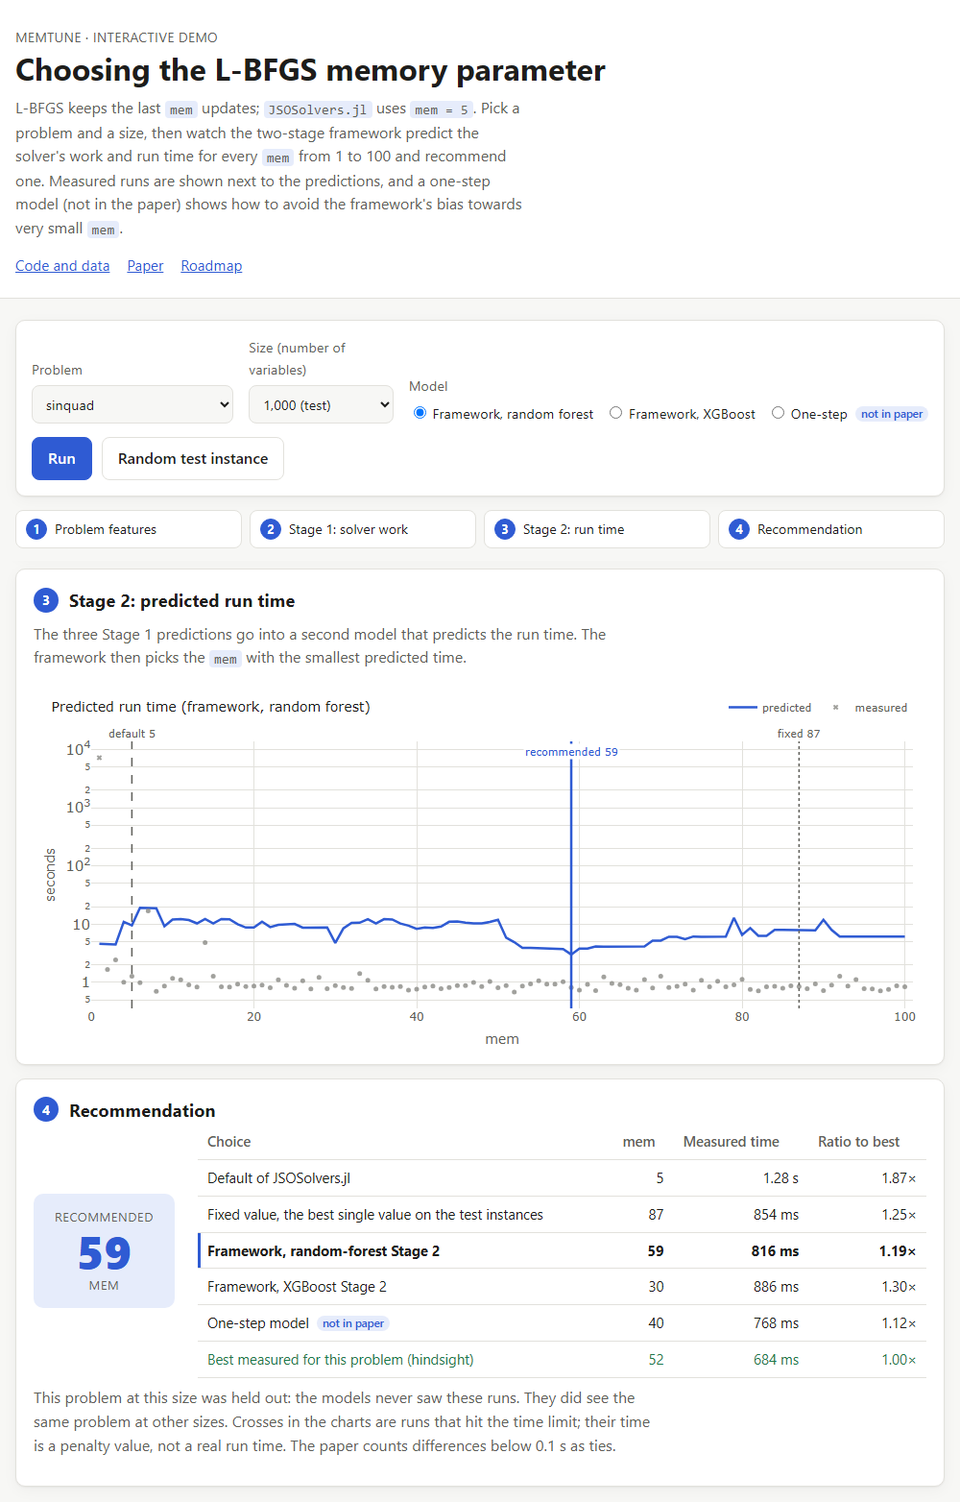
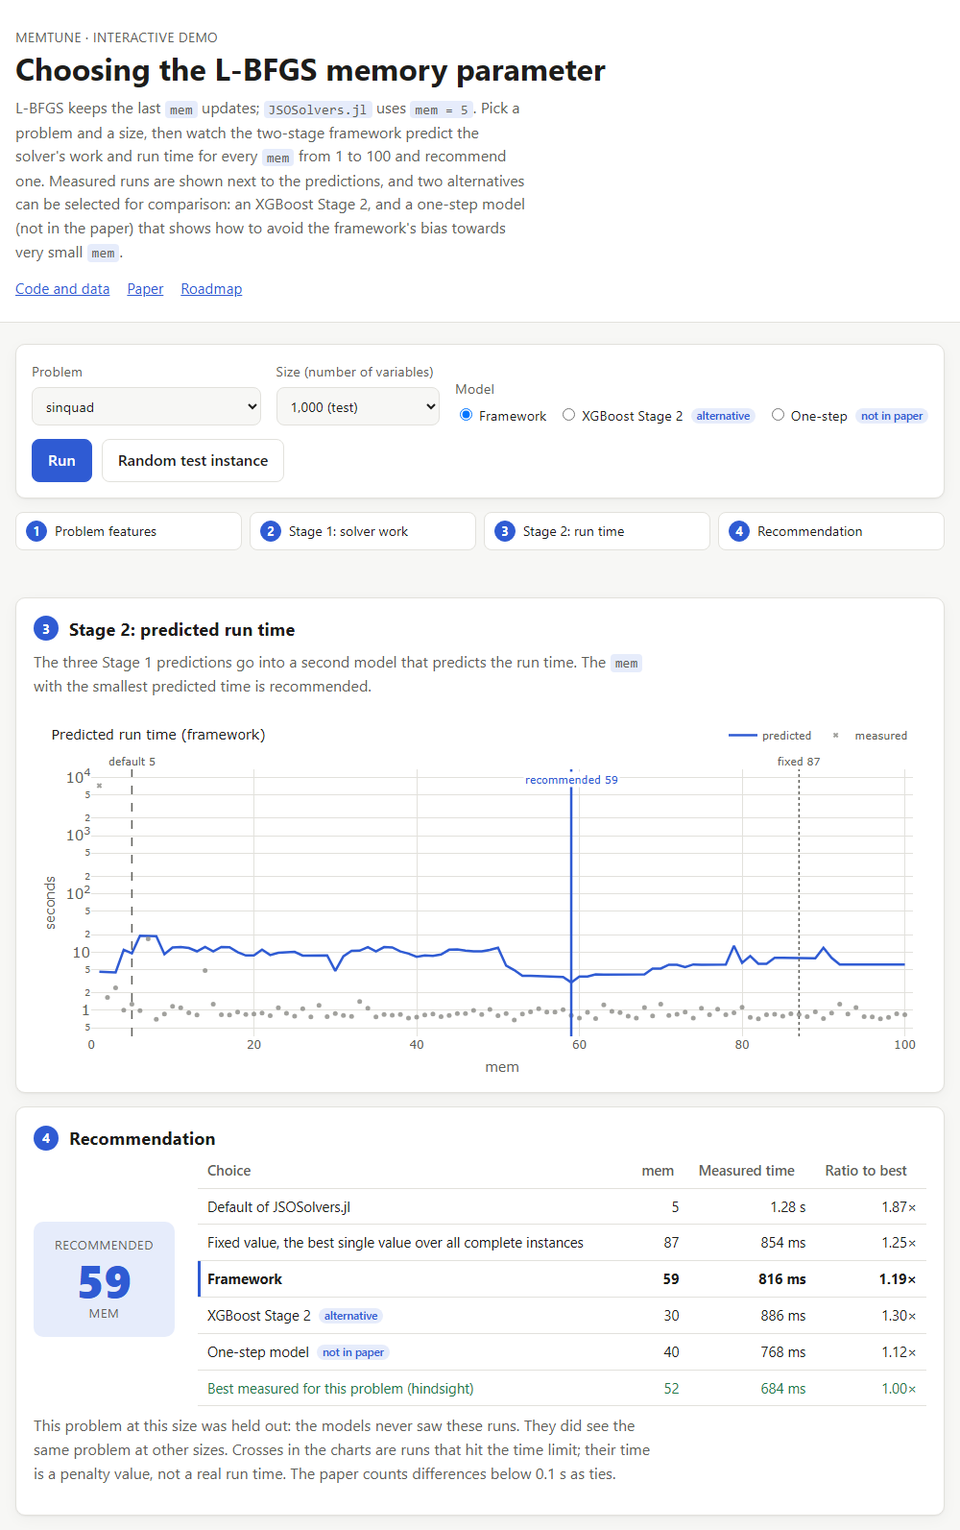
Present one framework (random-forest Stage 2), as in the paper
The XGBoost Stage 2 of the journal article is now labelled an alternative
in the README, the documentation, the demo and the output of reproduce.
Its model, its reference values and --stage2 gb are unchanged.

The fixed mem = 87 is described as the best single value over all 215
complete instances (on the 43 test instances alone the best value is 86).

diff --git a/site/index.html b/site/index.html
@@ -18,7 +18,7 @@
         L-BFGS keeps the last <code>mem</code> updates; <code>JSOSolvers.jl</code> uses <code>mem = 5</code>.
         Pick a problem and a size, then watch the two-stage framework predict the solver's work and run time
         for every <code>mem</code> from 1 to 100 and recommend one. Measured runs are shown next to the predictions,
-        and a one-step model (not in the paper) shows how to avoid the framework's bias towards very small <code>mem</code>.
+        and two alternatives can be selected for comparison: an XGBoost Stage 2, and a one-step model (not in the paper) that shows how to avoid the framework's bias towards very small <code>mem</code>.
       </p>
       <nav class="links">
         <a href="https://github.com/nishanmudalige/OptimizationParameterTuning">Code and data</a>
@@ -40,8 +40,8 @@
       </label>
       <fieldset class="field seg" id="model">
         <legend>Model</legend>
-        <label title="The paper's framework with a random-forest Stage 2"><input type="radio" name="model" value="rf" checked> Framework, random forest</label>
-        <label title="The paper's framework with an XGBoost Stage 2"><input type="radio" name="model" value="gb"> Framework, XGBoost</label>
+        <label title="The framework: hybrid Stage 1 and random-forest Stage 2"><input type="radio" name="model" value="rf" checked> Framework</label>
+        <label title="The same Stage 1 with an XGBoost Stage 2; reported in the journal article, not part of the framework"><input type="radio" name="model" value="gb"> XGBoost Stage 2 <span class="tag">alternative</span></label>
         <label title="Predicts run time directly from the features; not in the paper"><input type="radio" name="model" value="one_step"> One-step <span class="tag">not in paper</span></label>
       </fieldset>
       <div class="actions">
@@ -116,8 +116,8 @@
           (1 = optimal in hindsight).</li>
         <li><strong>Limits:</strong> results come from one train/test split, and every test instance is a problem that
           also occurs in the training data at another size, so they say little about entirely new problems; the timing features depend on the machine
-          that measured them; a single large fixed value (<code>mem = 87</code>, chosen with
-          hindsight on the test problems) is a strong reference that no model here beats. See the paper.</li>
+          that measured them; a single large fixed value (<code>mem = 87</code>, the value with the smallest average run time over all 215 complete instances, chosen with
+          hindsight) is a strong reference that no model here beats. See the paper.</li>
         <li><strong>Not covered:</strong> non-scalable (small, fixed-size) problems and sizes outside the training range;
           computing features for new problems live is on the <a href="https://github.com/nishanmudalige/OptimizationParameterTuning/blob/main/docs/DEMO_ROADMAP.md">roadmap</a>.</li>
       </ul>

diff --git a/site/app.js b/site/app.js
@@ -7,15 +7,15 @@ const FIRST_EXAMPLE = "sinquad_1000";  // shown when the address names no instan
 const state = { index: null, meta: null, byId: new Map(), cache: new Map(), current: null, model: "rf", running: false };
 const $ = (id) => document.getElementById(id);
 const reduceMotion = window.matchMedia("(prefers-reduced-motion: reduce)").matches;
-const MODEL_NAME = { rf: "framework, random forest", gb: "framework, XGBoost", one_step: "one-step model" };
+const MODEL_NAME = { rf: "framework", gb: "alternative XGBoost Stage 2", one_step: "one-step model" };
 const POLICY_ROWS = [  // [policy key, label, meta.table4 key]
-  ["rf", "Framework, random-forest Stage 2", "framework_rf"],
-  ["gb", "Framework, XGBoost Stage 2", "framework_gb"],
+  ["rf", "Framework", "framework_rf"],
+  ["gb", 'XGBoost Stage 2 <span class="tag">alternative</span>', "framework_gb"],
   ["one_step", 'One-step model <span class="tag">not in paper</span>', "one_step_rf"],
 ];
 const TIME_EXPLAIN = {
-  framework: "The three Stage 1 predictions go into a second model that predicts the run time. The framework then picks " +
-    "the <code>mem</code> with the smallest predicted time.",
+  framework: "The three Stage 1 predictions go into a second model that predicts the run time. " +
+    "The <code>mem</code> with the smallest predicted time is recommended.",
   one_step: "The one-step model (not in the paper) predicts the run time directly from the 15 features, " +
     "<code>mem</code> included, and picks the <code>mem</code> with the smallest predicted time.",
 };
@@ -214,7 +214,7 @@ function renderRecommendation(d) {
   const ratio = (x) => (x === null || best === null || best === 0 ? "–" : `${(x / best).toFixed(2)}×`);
   const rows = [
     ["Default of JSOSolvers.jl", state.meta.default_mem, t.default, ""],
-    ["Fixed value, the best single value on the test instances", state.meta.fixed_mem, t.fixed, ""],
+    ["Fixed value, the best single value over all complete instances", state.meta.fixed_mem, t.fixed, ""],
     ...POLICY_ROWS.map(([key, label]) => [label, d.rec[key], t[key], key === state.model ? "chosen" : ""]),
     ["Best measured for this problem (hindsight)", d.best_observed_mem, best, "best"],
   ];

diff --git a/src/memtune/robustness.py b/src/memtune/robustness.py
@@ -23,8 +23,8 @@ hyper-parameter is tuned again. Policies compared on every test set:
 ``default_mem5``    the default of JSOSolvers.jl
 ``fixed_train``     one fixed ``mem`` for all problems, chosen on the *training* instances of that split
                     (smallest mean performance ratio); unlike the paper's ``mem = 87`` it uses no test data
-``framework_rf``    the paper's framework, random-forest Stage 2
-``framework_gb``    the paper's framework, XGBoost Stage 2
+``framework_rf``    the paper's framework: hybrid Stage 1, random-forest Stage 2
+``framework_gb``    the alternative XGBoost Stage 2 on the same Stage 1 (not part of the framework)
 ``one_step_rf``     the one-step model (see :mod:`memtune.one_step`)
 ==================  ====================================================================================
 """
@@ -44,8 +44,8 @@ POLICIES = ("default_mem5", "fixed_train", "framework_rf", "framework_gb", "one_
 POLICY_LABELS = {
     "default_mem5": "Default mem = 5",
     "fixed_train": "Fixed mem chosen on the training instances",
-    "framework_rf": "Framework, random-forest Stage 2 (paper)",
-    "framework_gb": "Framework, XGBoost Stage 2 (paper)",
+    "framework_rf": "Framework (paper)",
+    "framework_gb": "Alternative, XGBoost Stage 2",
     "one_step_rf": "One-step model",
 }
 SUMMARY_COLUMNS = ["Q50", "Q75", "Q90", "mean", "time_ratio", "small_mem"]

diff --git a/tests/test_cli_tools.py b/tests/test_cli_tools.py
@@ -49,7 +49,7 @@ def test_reproduce_confirms_every_reference_value(full_csv, tmp_path, capsys):
     assert len(rows) == 32 and all(r["agrees"] for r in rows)
     # the numbers printed in the paper
     q90 = {r["quantity"]: r["recomputed"] for r in rows if r["quantity"].endswith("90th pct. ratio")}
-    assert q90["Framework, XGBoost Stage 2, 90th pct. ratio"] == pytest.approx(2.061, abs=5e-4)
+    assert q90["Alternative, XGBoost Stage 2, 90th pct. ratio"] == pytest.approx(2.061, abs=5e-4)
     assert q90["Default mem = 5 (Baseline 1), 90th pct. ratio"] == pytest.approx(2.684, abs=5e-4)
 
 
@@ -61,7 +61,7 @@ def test_reproduce_notices_a_different_value(sample_result, golden_sample):
     changed["table4"]["framework_gb"]["Q90"] *= 1.001
     changed["chosen_mem"]["framework_rf"][next(iter(changed["chosen_mem"]["framework_rf"]))] = 0
     bad = [quantity for _, quantity, _, _, ok in comparison_rows(sample_result, changed) if not ok]
-    assert bad == ["Framework, XGBoost Stage 2, 90th pct. ratio", "mem chosen for every test instance"]
+    assert bad == ["Alternative, XGBoost Stage 2, 90th pct. ratio", "mem chosen for every test instance"]
 
 
 @pytest.fixture(scope="module")

diff --git a/src/memtune/models.py b/src/memtune/models.py
@@ -29,7 +29,8 @@ MODEL_FILES = {
     "one_step_rf": "one_step/random_forest.pkl",
 }
 
-#: Policies that choose ``mem``: the paper's framework with either Stage 2, and the one-step model.
+#: Policies that choose ``mem``: the paper's framework (``rf``), the alternative XGBoost Stage 2 (``gb``), and the
+#: one-step model.
 POLICIES = ("rf", "gb", "one_step")
 
 
@@ -86,7 +87,8 @@ class Framework:
     def log_time(self, X: np.ndarray, which: str = "rf") -> np.ndarray:
         """Predicted log1p run time for rows of ``data.FEATURES``.
 
-        ``which`` is ``"rf"`` / ``"gb"`` (the paper's framework: Stage 1 hybrid, then that Stage 2) or
+        ``which`` is ``"rf"`` (the paper's framework: Stage 1 hybrid, then the random-forest Stage 2), ``"gb"`` (the
+        same Stage 1 with the alternative XGBoost Stage 2) or
         ``"one_step"`` (features -> run time directly; not in the paper).
         """
         if which == "one_step":

diff --git a/src/memtune/__main__.py b/src/memtune/__main__.py
@@ -102,7 +102,8 @@ def main(argv=None) -> int:
         if name == "recommend":
             s.add_argument("features", help="CSV with one row per problem (see docs/USAGE.md)")
             s.add_argument("--stage2", choices=["rf", "gb", "one_step"], default="rf",
-                           help="rf / gb: the paper's framework; one_step: the one-step model (not in the paper)")
+                           help="rf: the paper's framework (default); gb: the alternative XGBoost Stage 2; "
+                                "one_step: the one-step model (not in the paper)")
             s.add_argument("--output", help="write CSV here instead of stdout")
         elif name == "demo":
             s.add_argument("--port", type=int, default=8000, help="port (default 8000; the next free one is used)")

diff --git a/src/memtune/predict.py b/src/memtune/predict.py
@@ -63,7 +63,8 @@ def recommend_mem(problems: pd.DataFrame, framework=None, stage2: str = "rf", mo
     ``problems`` needs the columns in :data:`PROBLEM_FEATURES` (everything in ``data.FEATURES`` except
     ``mem``). Ties go to the largest ``mem``, as in the paper's evaluation.
 
-    ``stage2`` is ``"rf"`` or ``"gb"`` for the paper's framework, or ``"one_step"`` for the one-step model
+    ``stage2`` is ``"rf"`` for the paper's framework, ``"gb"`` for the alternative XGBoost Stage 2 (reported in the
+    journal article, not part of the framework), or ``"one_step"`` for the one-step model
     (not in the paper; it avoids the framework's bias towards very small ``mem``, see :mod:`memtune.one_step`).
     """
     fw = framework or load_framework(models_dir)

diff --git a/scripts/export_demo_data.py b/scripts/export_demo_data.py
@@ -9,7 +9,7 @@ Output:
                              meta.table4: the test-set results of every policy
     instances/<id>.json      features, Stage 1 and Stage 2 curves over mem = 1..100, observed values
 
-Policies: "rf" and "gb" are the paper's framework with either Stage 2; "one_step" is the one-step model
+Policies: "rf" is the paper's framework, "gb" the alternative XGBoost Stage 2; "one_step" is the one-step model
 (NOT in the paper, see memtune/one_step.py). Its curve is stored under stage2.one_step for simplicity.
 
 The static page in site/ reads these files; nothing runs on a server.

diff --git a/src/memtune/reproduce.py b/src/memtune/reproduce.py
@@ -19,8 +19,8 @@ RTOL = 1e-6
 POLICY_LABELS = {
     "baseline1_mem5": "Default mem = 5 (Baseline 1)",
     "baseline2_mem87": "Fixed mem = 87 (Baseline 2)",
-    "framework_rf": "Framework, random-forest Stage 2",
-    "framework_gb": "Framework, XGBoost Stage 2",
+    "framework_rf": "Framework",
+    "framework_gb": "Alternative, XGBoost Stage 2",
 }
 METRIC_LABELS = {"Q50": "median ratio", "Q75": "75th pct. ratio", "Q90": "90th pct. ratio", "mean": "mean ratio",
                  "total_time": "total time (s)"}

diff --git a/README.md b/README.md
@@ -18,7 +18,7 @@ trained models, and everything needed to reproduce the reported numbers on Linux
 > Large-Scale Unconstrained Continuous Optimization Solvers*, Journal of Computational and Data Exploration 2(1),
 > 2026. [doi:10.33137/codex.v2i1.47829](https://doi.org/10.33137/codex.v2i1.47829)
 
-![The interactive demo: predicted and measured run time for every mem, and the recommendation compared with the default, a fixed value, the one-step model and the best measured run](docs/images/demo.png)
+![The interactive demo: predicted and measured run time for every mem, and the recommendation compared with the default, a fixed value, the alternatives and the best measured run](docs/images/demo.png)
 
 ## Contents
 
@@ -38,8 +38,11 @@ trained models, and everything needed to reproduce the reported numbers on Linux
 
 1. **Stage 1** predicts, for a problem and a candidate `mem`, the number of objective and gradient evaluations
    (random forest) and the allocated memory (XGBoost) from 14 problem features and `mem`.
-2. **Stage 2** turns those three predictions into a predicted run time (random forest or XGBoost).
+2. **Stage 2** turns those three predictions into a predicted run time (random forest).
 3. The framework recommends the `mem` between 1 and 100 with the smallest predicted run time.
+
+Each stage uses the model that was most accurate on the test set. Stage 1 is therefore a hybrid of two models, and
+Stage 2 is a random forest (R² = 0.62 for the logarithm of the run time, against 0.57 for XGBoost).
 
 The features describe the problem (number of variables, size and depth of the objective's expression tree, operator
 counts) and the cost of one objective and one gradient evaluation. The solver itself is never run to make a
@@ -98,7 +101,7 @@ import pandas as pd
 from memtune import recommend_mem
 
 problems = pd.read_csv("problems.csv")
-problems["recommended_mem"] = recommend_mem(problems, stage2="rf")   # "rf", "gb" or "one_step"
+problems["recommended_mem"] = recommend_mem(problems)
 ```
 
 | What | Command | Time |
@@ -120,20 +123,30 @@ problems["recommended_mem"] = recommend_mem(problems, stage2="rf")   # "rf", "gb
 `python -m memtune reproduce` recomputes the following table from the committed models and data and checks all 32
 values against a reference that was computed independently of this package.
 
-The benchmark has 215 complete problem instances (a problem at one size), each solved for `mem` = 1 … 100. They were
-split once by instance: 172 for training and **43 for testing** (seed 66). The *performance ratio* of a choice on an
-instance is its run time divided by the run time of the best `mem` for that instance, so 1 is optimal.
+The benchmark has 215 complete problem instances, each solved for `mem` = 1 … 100. An *instance* is a problem at one
+size, also called a *configuration*. They were split once by instance: 172 for training and **43 for testing**
+(seed 66). The *performance ratio* of a choice on an instance is its run time divided by the run time of
+the best `mem` for that instance, so 1 is optimal. A choice within 0.1 s of the best counts as optimal.
 
 | Choice of `mem` (43 test instances) | Median | 75th pct. | 90th pct. | Mean |
 |---|---:|---:|---:|---:|
 | Default `mem = 5` (Baseline 1) | 1.059 | 1.628 | 2.684 | 2.262 |
-| Fixed `mem = 87`, the best single value on the test instances (Baseline 2) | 1.000 | 1.056 | 1.280 | 1.093 |
-| Framework, random-forest Stage 2 | 1.000 | 1.577 | 2.195 | 1.637 |
-| Framework, XGBoost Stage 2 | 1.000 | 1.297 | 2.061 | 1.459 |
+| Fixed `mem = 87` (Baseline 2) | 1.000 | 1.056 | 1.280 | 1.093 |
+| **Framework** | 1.000 | 1.577 | 2.195 | 1.637 |
+
+Baseline 2 is the single value with the smallest average run time over all 215 instances. It was chosen with
+hindsight, so a user could not have known it in advance.
 
 The framework improves on the default in these ratios, and a single large `mem` is a strong reference that it does
-not beat. Two points go beyond the paper and are documented separately, so that the paper's numbers above stay
-exactly as published:
+not beat. Whether choosing `mem` per problem adds anything beyond a larger fixed default is open.
+
+**Alternative Stage 2.** The journal article also reports the framework with an XGBoost Stage 2 (90th percentile
+2.061, mean 1.459). It is not part of the framework, because the random forest predicts the run time better, but its
+model is kept so that those numbers stay reproducible: `python -m memtune reproduce` checks them, and
+`--stage2 gb` selects it.
+
+Two points go beyond the paper and are documented separately, so that the paper's numbers above stay exactly as
+published:
 
 - **The framework often recommends a very small `mem`**, and the total run time of its choices on the test instances
   is larger than with the default. [`docs/ONE_STEP_MODEL.md`](docs/ONE_STEP_MODEL.md) explains why and describes a
@@ -152,7 +165,7 @@ This computes the demo data from the committed models (10 seconds, only the firs
 and opens the page. Pick one of the 280 benchmark instances, press *Run*, and follow the stages: the problem's
 features, the predicted solver work (Stage 1), the predicted run time for every `mem` (Stage 2) and the
 recommendation, next to the measured runs, the default, the fixed value and the best measured `mem`. The page shows
-the framework with the random-forest Stage 2 first; the XGBoost Stage 2 and the one-step model can be selected.
+the framework; the alternative XGBoost Stage 2 and the one-step model can be selected for comparison.
 
 The page is static (`site/`). Every push to `main` builds and tests it, including a run in a real browser. It is
 published at <https://nishanmudalige.github.io/OptimizationParameterTuning/> once GitHub Pages is switched on for the
@@ -181,7 +194,8 @@ measurements, which were collected with Julia scripts that are not included yet.
   [`OptimizationProblems.jl`](https://github.com/JuliaSmoothOptimizers/OptimizationProblems.jl) at 99 to 100,000
   variables, each for `mem` = 1 … 100, with a time limit of 3,600 s per run. All columns are documented in
   [`data/README.md`](data/README.md).
-- **Models:** the eight scikit-learn / XGBoost models of the paper and the one-step model, in
+- **Models:** the framework's three models (two for Stage 1, one for Stage 2), the five other models compared with
+  them in the paper, and the one-step model, in
   [`models/`](models/README.md). They are pickle files: load them only with the pinned versions (scikit-learn 1.5.1,
   **XGBoost 3.2.0**). Other XGBoost versions load the files but return wrong predictions, so `memtune` refuses to
   run with them. Only load pickle files from sources you trust.

diff --git a/docs/ONE_STEP_MODEL.md b/docs/ONE_STEP_MODEL.md
@@ -5,8 +5,8 @@
 
 ## Why the framework often recommends a very small `mem`
 
-Of the 280 instances in the data, the framework recommends `mem` ≤ 3 for 157 with the random-forest Stage 2 and for
-176 with the XGBoost Stage 2.
+Of the 280 instances in the data, the framework recommends `mem` ≤ 3 for 157. With the alternative XGBoost Stage 2
+of the journal article, which is not part of the framework, it is 176.
 
 The reason is what Stage 2 gets to see: only the three Stage 1 predictions (objective evaluations, gradient
 evaluations, allocated memory). Allocated memory grows with `mem`. Across problems it also grows with the problem
@@ -16,7 +16,7 @@ within one problem its predicted run time *rises* with `mem`. The measured run t
 | Within one instance, correlation of `mem` with … (median over the 43 test instances) | |
 |---|---:|
 | the measured run time | −0.25 |
-| the run time predicted by the framework, XGBoost Stage 2 | +0.56 |
+| the run time predicted with the XGBoost Stage 2 | +0.56 |
 
 On the test instances this costs time. The ratios of the paper's table improve on the default, but the *total* run
 time of the framework's choices is larger than with the default, because some of the small-`mem` choices fall on
@@ -25,9 +25,9 @@ long-running problems:
 | Choice of `mem` (43 test instances) | Median | 75th pct. | 90th pct. | Mean | Total time | `mem` ≤ 3 |
 |---|---:|---:|---:|---:|---:|---:|
 | Default `mem = 5` | 1.059 | 1.628 | 2.684 | 2.262 | 3,309 s | 0 |
-| Fixed `mem = 87`, the best single value on the test instances | 1.000 | 1.056 | 1.280 | 1.093 | 2,474 s | 0 |
-| Framework, random-forest Stage 2 (paper) | 1.000 | 1.577 | 2.195 | 1.637 | 4,977 s | 20 |
-| Framework, XGBoost Stage 2 (paper) | 1.000 | 1.297 | 2.061 | 1.459 | 4,884 s | 25 |
+| Fixed `mem = 87`, the best single value over all 215 instances | 1.000 | 1.056 | 1.280 | 1.093 | 2,474 s | 0 |
+| Framework (paper) | 1.000 | 1.577 | 2.195 | 1.637 | 4,977 s | 20 |
+| Alternative, XGBoost Stage 2 (journal article) | 1.000 | 1.297 | 2.061 | 1.459 | 4,884 s | 25 |
 | **One-step model** | 1.009 | 1.131 | 1.394 | 1.140 | 2,584 s | 0 |
 
 ## The model
@@ -63,13 +63,13 @@ from memtune import recommend_mem
 problems["recommended_mem"] = recommend_mem(problems, stage2="one_step")
 ```
 
-`python -m memtune evaluate` prints its row (`one_step_rf`) under the paper's rows, and the demo offers it as a
-third model.
+`python -m memtune evaluate` prints its row (`one_step_rf`) under the paper's rows, and the demo offers it next
+to the framework.
 
 ## What it does not show
 
-- It does **not** beat the fixed `mem = 87` on the test instances. That value was picked by looking at the test
-  results, so the comparison favours it, but it means that on this benchmark a single large `mem` is hard to improve
+- It does **not** beat the fixed `mem = 87` on the test instances. That value was picked with hindsight, using all
+  215 instances and so the test instances too, which favours it, but it means that on this benchmark a single large `mem` is hard to improve
   on. [`ROBUSTNESS.md`](ROBUSTNESS.md) describes a fairer version of that comparison, with the fixed value chosen on
   the training data.
 - The numbers above come from the same single split as the paper's, with the same limits.

diff --git a/docs/USAGE.md b/docs/USAGE.md
@@ -51,7 +51,7 @@ Prepare a CSV with one row per problem and these columns (they are the problem f
 
 ```bash
 python -m memtune recommend my_problems.csv --output recommendations.csv
-python -m memtune recommend my_problems.csv --stage2 gb      # XGBoost Stage 2 instead of the random forest
+python -m memtune recommend my_problems.csv --stage2 gb      # alternative: XGBoost Stage 2 (not part of the framework)
 python -m memtune recommend my_problems.csv --stage2 one_step  # the one-step model (not in the paper)
 ```
 
@@ -62,15 +62,16 @@ import pandas as pd
 from memtune import recommend_mem
 
 problems = pd.read_csv("my_problems.csv")
-problems["recommended_mem"] = recommend_mem(problems, stage2="rf")   # or "gb", or "one_step"
+problems["recommended_mem"] = recommend_mem(problems)   # the framework; stage2="gb" or "one_step": the alternatives
 ```
 
 Ties between equally good `mem` values go to the largest one, as in the paper's evaluation.
 The paper's results are for the unconstrained problems of `OptimizationProblems.jl` and L-BFGS from
 `JSOSolvers.jl`; treat recommendations for very different problems with care.
 
-`"rf"` and `"gb"` are the paper's framework. It tends to pick a very small `mem` (Stage 2 links more allocated
-memory to a longer run). `"one_step"` is a random forest that predicts the run time directly from the features; it
+The default, `"rf"`, is the framework: hybrid Stage 1 and random-forest Stage 2. `"gb"` replaces Stage 2 by the
+XGBoost model that the journal article also reports; it is less accurate and not part of the framework. Both tend
+to pick a very small `mem` (Stage 2 links more allocated memory to a longer run). `"one_step"` is a random forest that predicts the run time directly from the features; it
 is not in the paper, avoids that bias and did better on the test instances
 ([`ONE_STEP_MODEL.md`](ONE_STEP_MODEL.md)). Retrain it with `python scripts/train_one_step_model.py` (`--select`
 first reruns the cross-validation that chose its settings, on the training instances only).
@@ -173,7 +174,7 @@ The page (`site/index.html`, `app.js`, `style.css`) is static: it reads the prec
 from the committed models with `memtune.predict.explain`, so it always shows what the package computes (a test checks
 that the recommendations for the test instances equal the paper's evaluation, and another test runs the page in a
 real browser). The URL keeps the selection, e.g. `#id=sinquad_1000&model=gb`, so you can link to an example. The
-model shown first is the paper's framework with the random-forest Stage 2.
+model shown first is the framework; `model=gb` and `model=one_step` show the two alternatives.
 
 Hosting:
 - **GitHub Pages:** `.github/workflows/pages.yml` builds, tests and publishes the page on every push to `main` once a
